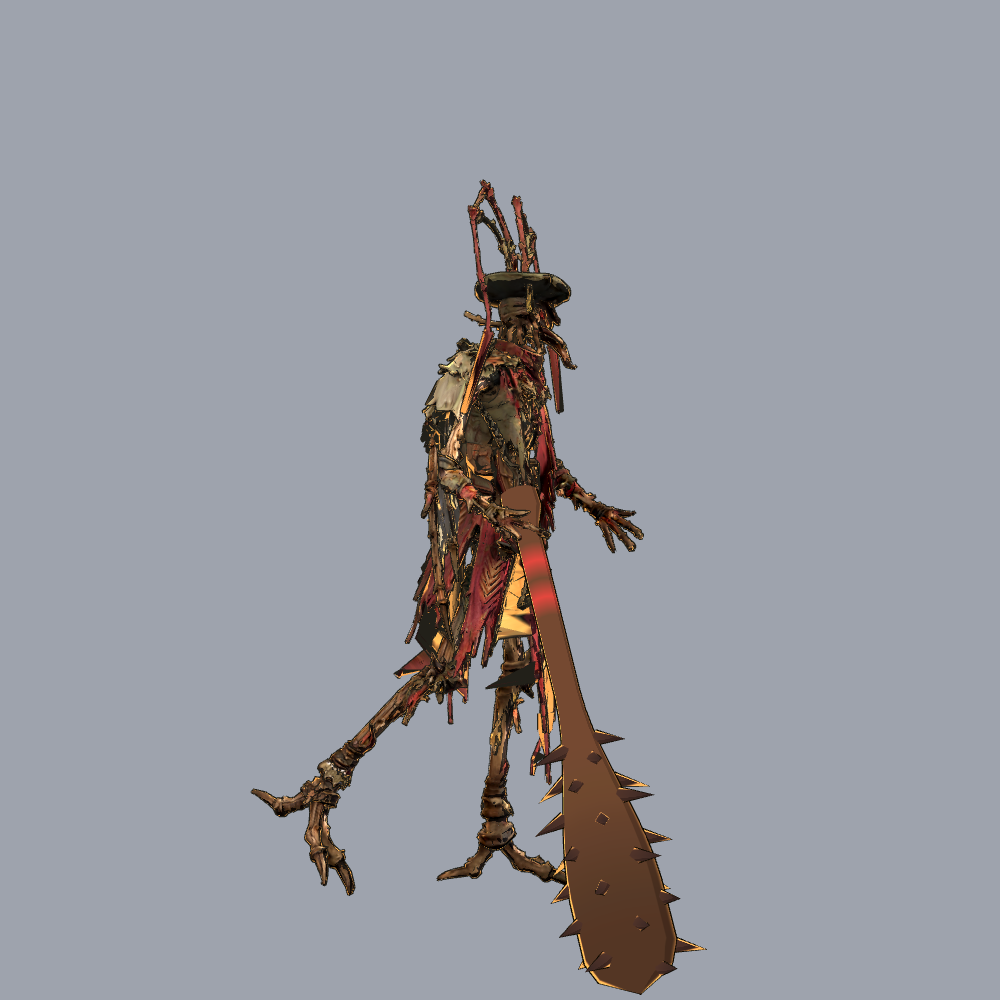
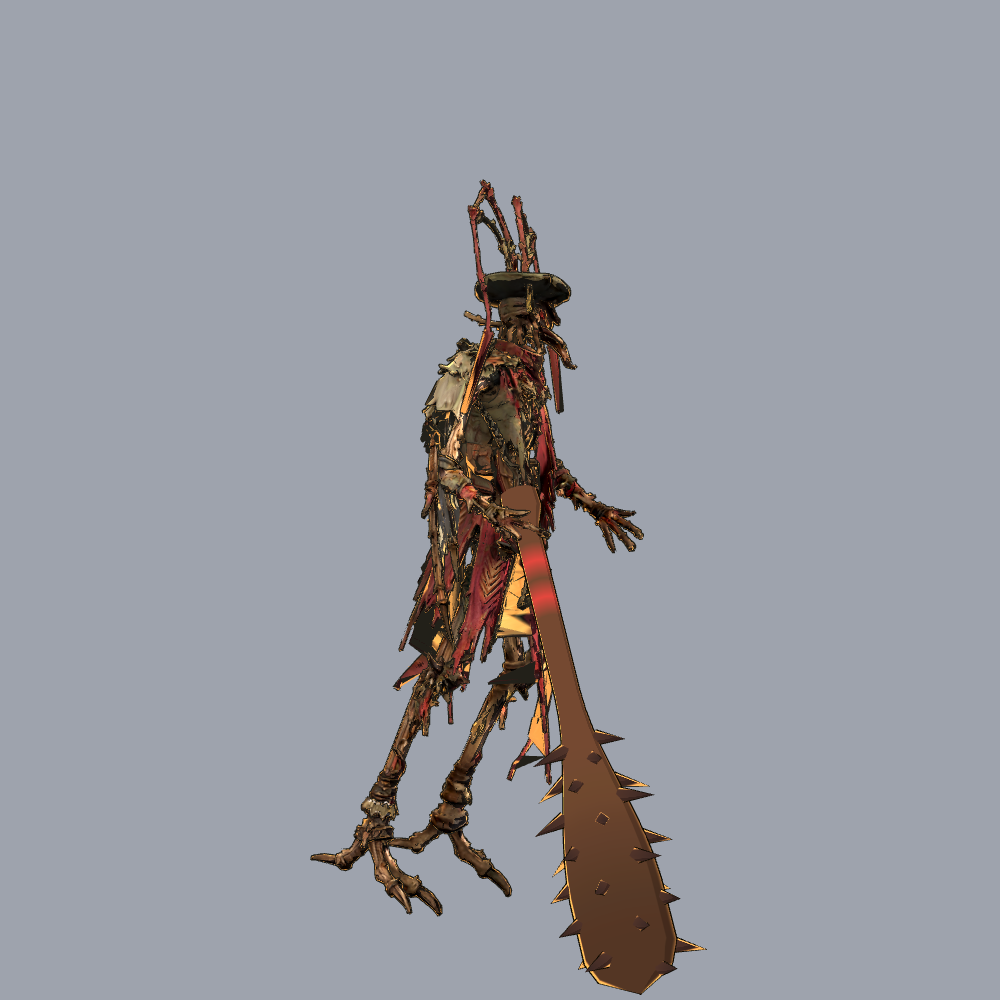
Foot planting solver for skinned rigs (both ankles stay on the ground line)
Claude-Session: https://claude.ai/code/session_01JpCUd4o87VKhrDe3kzX6UT

Changed region(s): [[0.248, 0.589, 0.589, 0.93], [0.434, 0.496, 0.465, 0.558]]

diff --git a/production/AUTONOMY.md b/production/AUTONOMY.md
@@ -37,7 +37,7 @@ Each critter needs a creator-supplied STANDING T-pose Tripo GLB (arms out, legs 
 - [~] B3b (cloth banner, back shreds and wings are sprung since 2026-10-18 via SPRINGS in skinned_rig.gd; ANTENNAE bones still to add) Cloth/antennae springs: SpringBoneSimulator3D on `cf1..3`, `cb1..3` (banner and back shreds). Add antenna bones (3 per side) in `bramvex_skin.py` (rebuild the GLB with the `final` stage, ~12 min in the background) and spring them too.
 - [ ] B4a Animation polish against the ELDEN RING STANDARD below, judged from a SIDE view contact sheet (add `--side` to `skin_sheet.gd`): fix anything that reads wrong (arms crossing the body, T-pose-like stubs, feet sliding).
 - [ ] B4b Missing clips: run (faster, leaning forward), backpedal, strafe, dodge in 4 directions, parry flick, win and lose poses, get-up from knockdown, last-stand roar, ability poses specific to Branchline / Thorn Salvo / Bat Sweep / Sergeant's Mark / Impale the Ground (design/v2/anatomy/bramvex.md sections 3 and 7).
-- [ ] B4c Feet planting: simple foot-lock so feet do not slide during walk (TwoBoneIK3D on legs) and head LookAt toward the opponent.
+- [x] B4c (2026-10-18 self-prompt chain 1: `_plant_feet` in skinned_rig.gd, per-leg Newton solve on knee then thigh keeps both ankles on the ground line; confirmed from the --live=strike_light --side view; head LookAt and TwoBoneIK not done) Feet planting: simple foot-lock so feet do not slide during walk (TwoBoneIK3D on legs) and head LookAt toward the opponent.
 - [ ] B5b Perf check: compare draw calls and triangles of a bout with the skinned Bramvex against another critter on `tools/shoot_bout.sh`; if skinned Bramvex costs much more, reduce (outline pass, normal map on Low quality).
 
 ### R&D enablers (lane 2; do after the Bramvex steps above, see production/RND_STRATEGY.md)
@@ -67,3 +67,4 @@ Weight and commitment, not floaty: (1) every attack has a readable anticipation 
 - 2026-10-18 Lead session: skinned Bramvex v4 built (31 bones incl. cloth chains cf1-3/cb1-3 and grip_L/R); legs/feet/arms/wings clean in walk/strike/crouch tests; known issue: central red banner and skirt streak in deep leg folds (fix with spring bones in B3). Not yet in the game. Schedule created: two hourly routines (:07 and :37 UTC) each doing one step; stops when runs_left hits 0.
 - 2026-10-18 Lead session: SkinnedRig + skin_poses.gd written and tested (31 test files pass); Bramvex now uses the skinned rig in real bouts. Poses are first-pass: judged only from a front-facing sheet and one 3/4 bout shot; side-view review, club, springs, run/strafe/directional dodge, win/lose, foot planting still to do (see Bramvex remaining work). Routines A/B re-enabled.
 - 2026-10-18 Lead session: club prop + SpringBoneSimulator3D on banner/shreds/wings; `skin_sheet.gd --live=<action> --side` plays an action in real time (spring bones really move) for review. Known visible flaw: the rear foot lifts off the ground at the end of strike_light/heavy (needs foot planting).
+- 2026-10-18 05:25Z self-prompt chain 1/6: foot planting done (both feet stay on the ground through strikes). Not verified: heavy strike, dodge and walk after the solver (only strike_light viewed live); mobile cost of the solver (about 6 skeleton updates per frame per rig).
